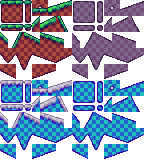
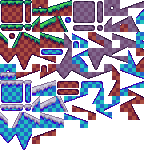
updates

diff --git a/src/games/mapmaker/renderer.cs b/src/games/mapmaker/renderer.cs
@@ -5,7 +5,17 @@
         c.Fill(new Color(22, 22, 25));
         c.DrawRect(6, 6, tileselX-12, 720-12);
 
-        c.DrawTexture(guillermotiles, tileselX, 6, 720-12, 720-12);
+        for(int x = 0; x < 32; x++)
+            for(int y = 0; y < 32; y++)
+                c.DrawTexture(guillermotiles, new Rectangle(x*8,y*8,8,8), new Rectangle(tileselX+x*35, y*35, 28, 28));
+
+        c.Fill(Color.White);
+
+        for (int x = 1; x < 32; x++)
+            c.DrawLine(tileselX+x*35-3.5f, 6, tileselX+x*35-3.5f, 720-6);
+
+        for (int y = 1; y < 31; y++)
+            c.DrawLine(tileselX+6, y*35-3.5f, 1280, y*35-3.5f);
 
         c.Antialias(false);
         c.Fill(Color.White);

diff --git a/src/games/mapmaker/updater.cs b/src/games/mapmaker/updater.cs
@@ -3,6 +3,6 @@
         if (!Mouse.IsButtonDown(MouseButton.Left))
             movingtileselx = false;
 
-        tileselX = m.clmp(tileselX, 64, 1280 - 64);
+        tileselX = m.clmp(tileselX, 256, 1280 - 64);
     }
 }
